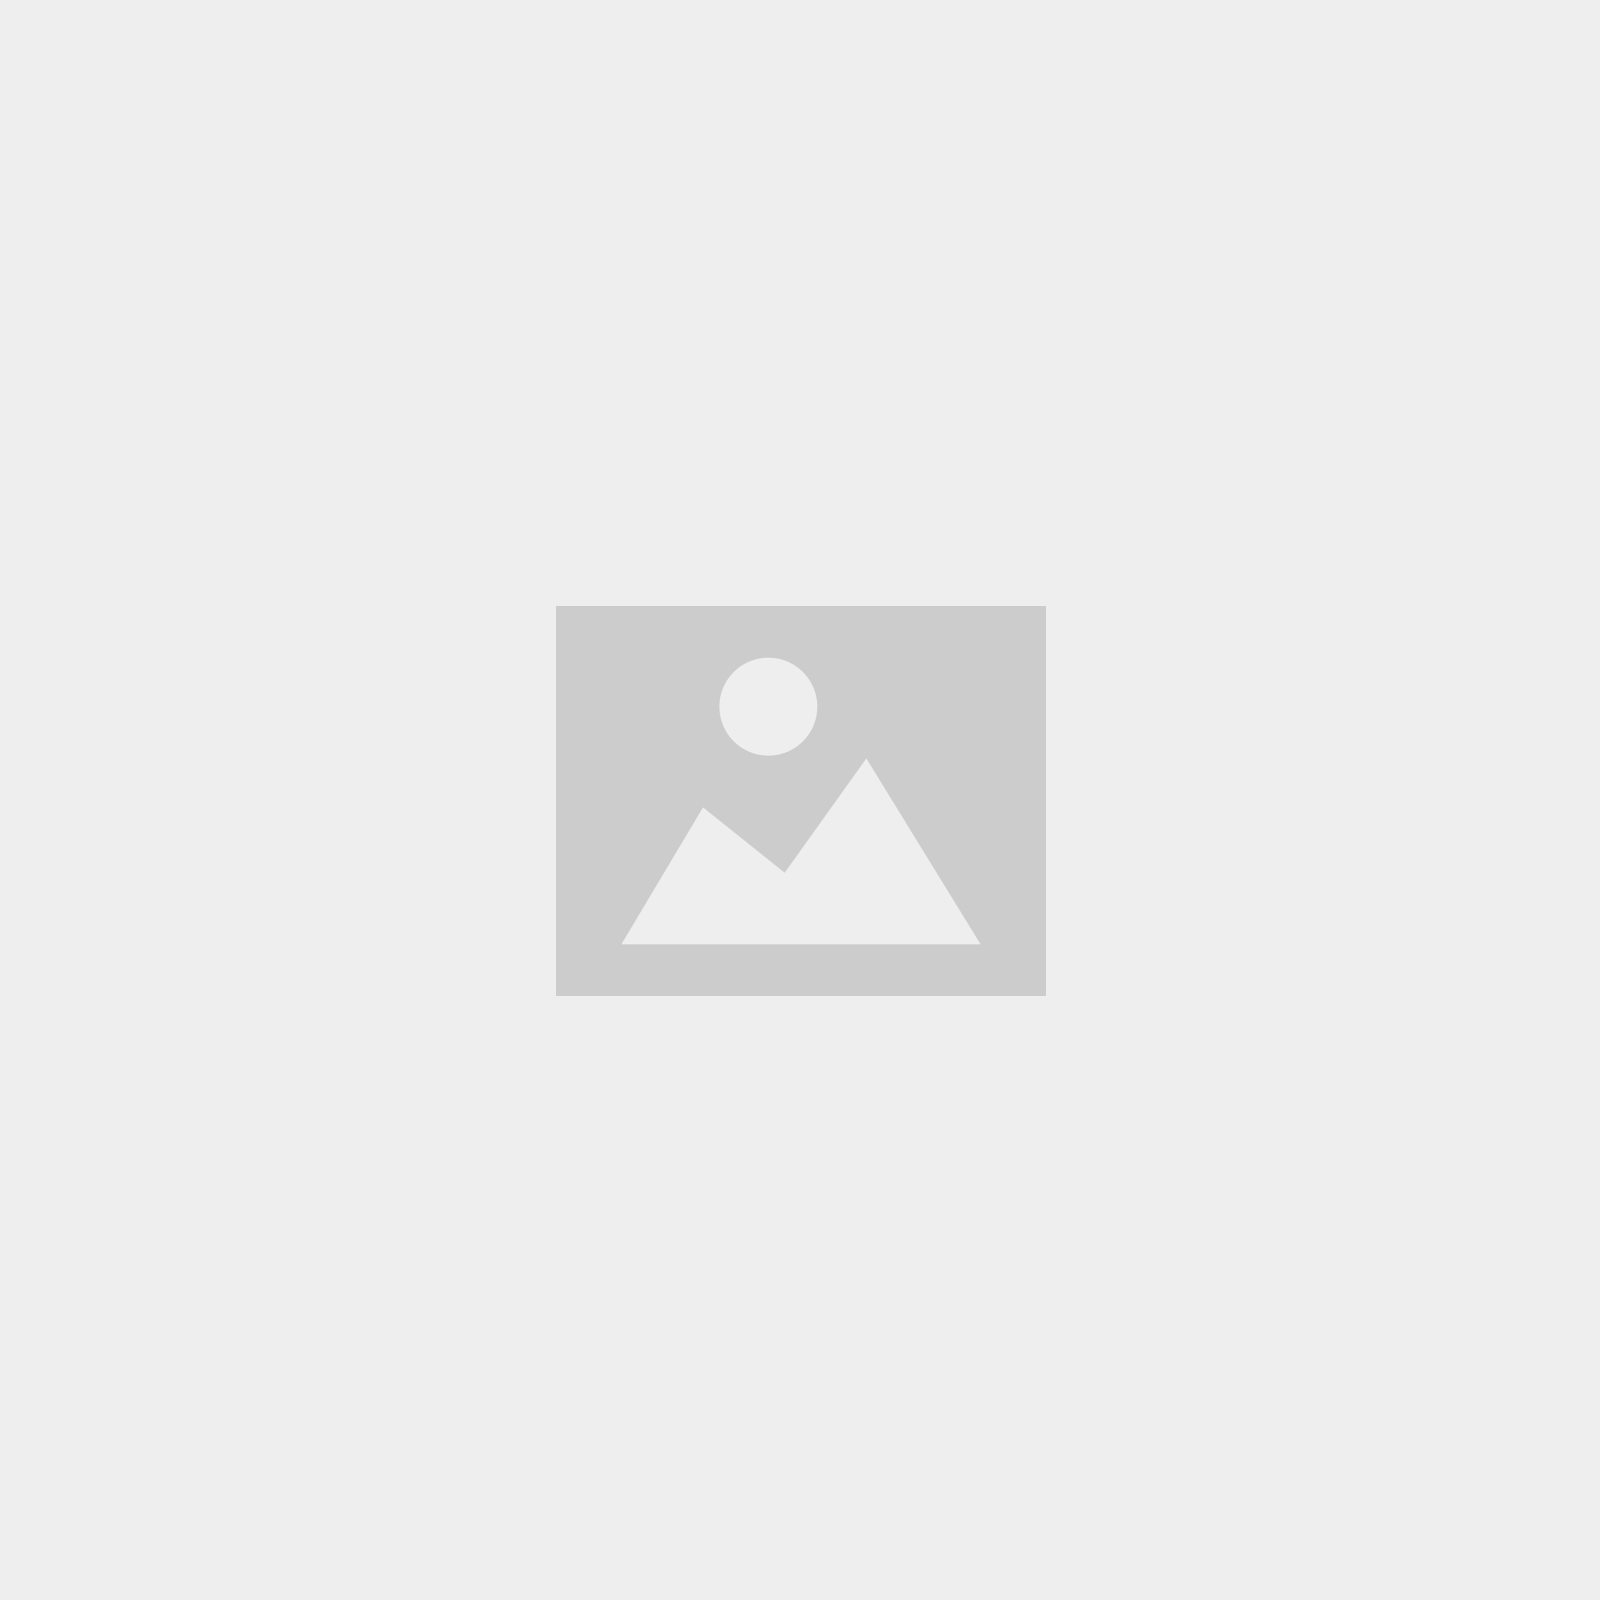
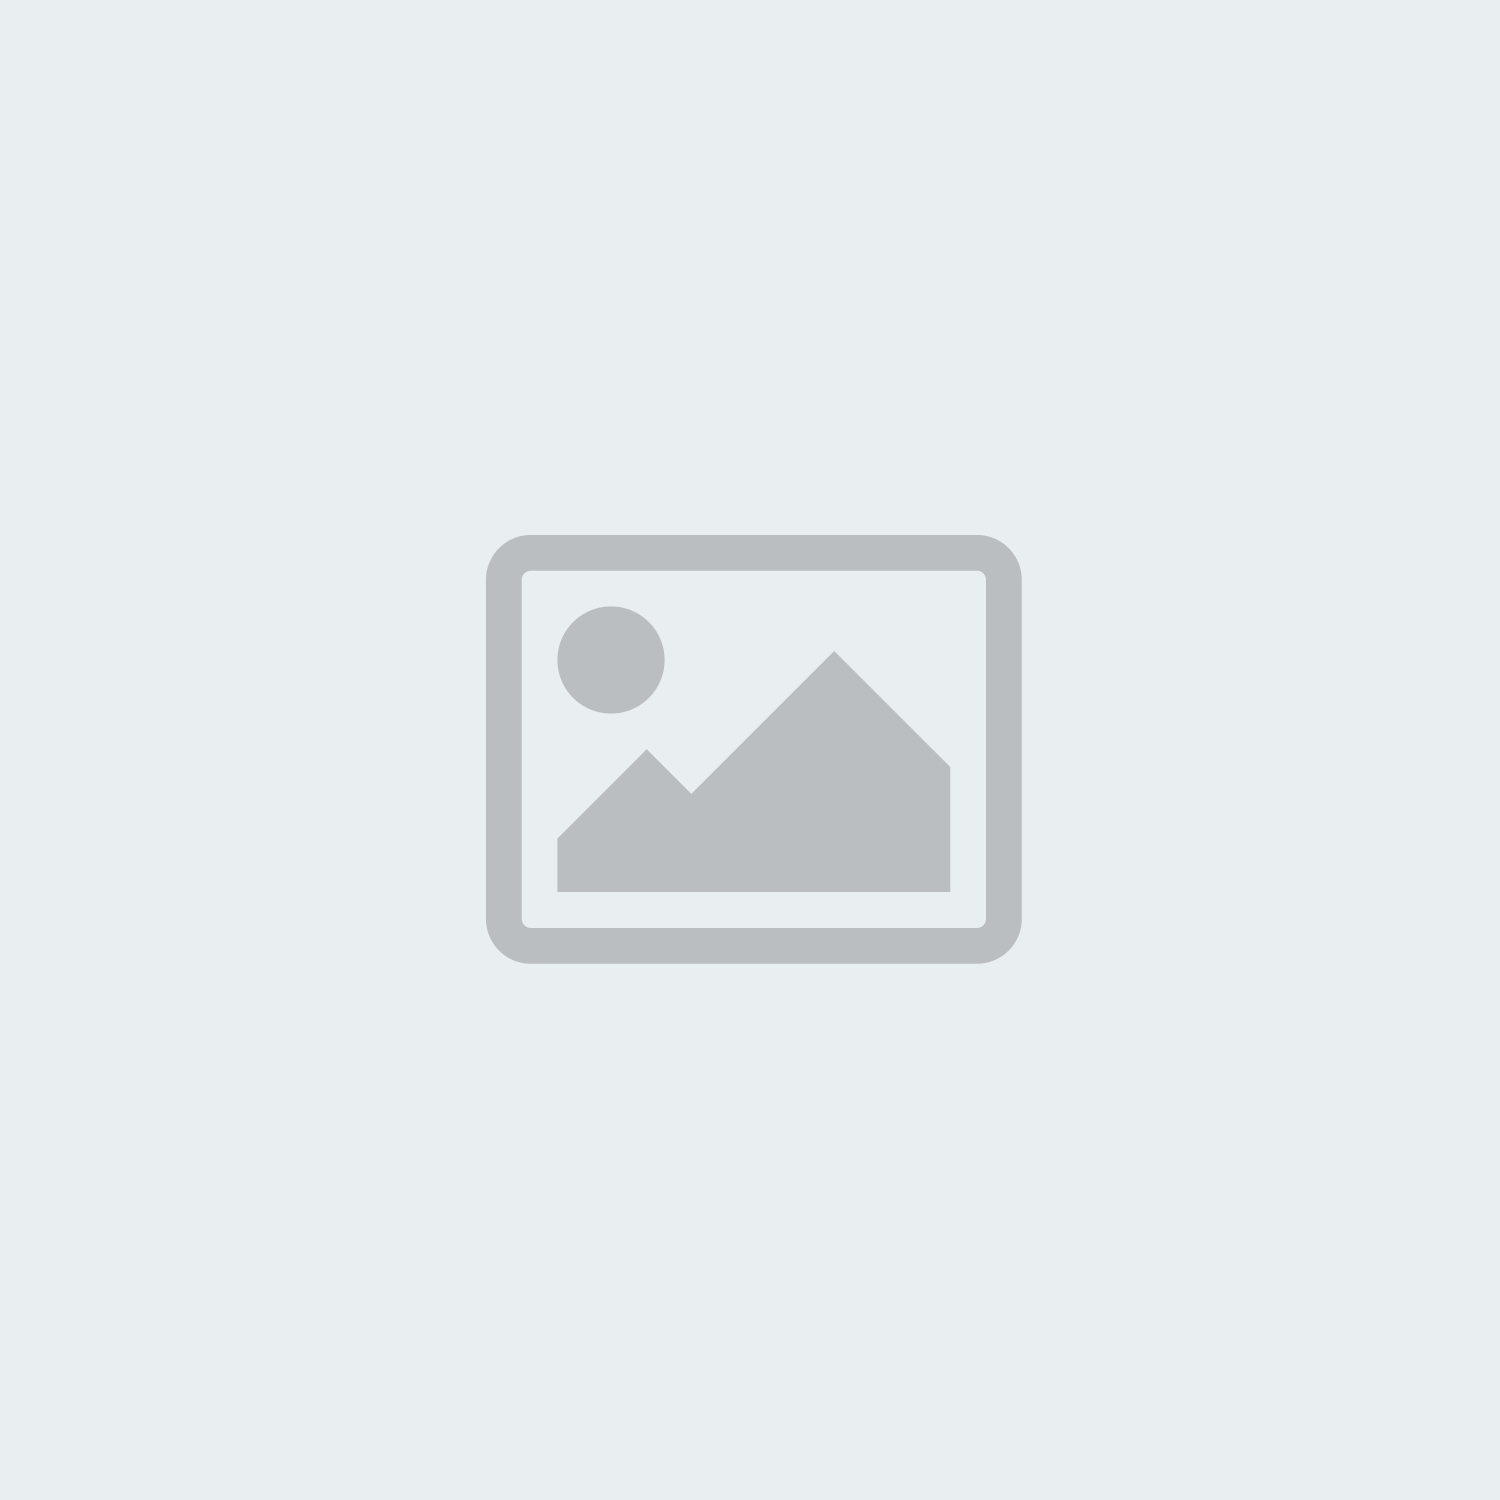
NutritionDetail: added default image for items

Changed region(s): [[0.3067, 0.3373, 0.7053, 0.644]]

diff --git a/ExerciseDetail.qml b/ExerciseDetail.qml
@@ -129,7 +129,7 @@ Item {
         anchors.left: exerciseDetail.left;
         anchors.right: exerciseDetail.right;
         anchors.bottom: exerciseDetail.bottom;
-        anchors.topMargin: -100;
+        anchors.topMargin: -80;
         anchors.horizontalCenter: exerciseDetail.horizontalCenter;
 
         height: 150;
@@ -143,7 +143,7 @@ Item {
             id: exerciseRounds;
             anchors.top: startExercises.top;
             anchors.horizontalCenter: exerciseDetail.horizontalCenter;
-            anchors.bottomMargin: app.sizes.margin / 2.5;
+            anchors.bottomMargin: app.sizes.margin / 2.8;
 
             color: imagesGalary.zoom ? app.theme.light.textColor : fit.isDark ? app.theme.dark.textColor : app.theme.light.textColor;
 
@@ -151,7 +151,7 @@ Item {
 
             font: Font {
                 family: "Proxima Nova Condensed";
-                pixelSize: 28;
+                pixelSize: 26;
                 black: true;
             }
         }

diff --git a/NutritionDelegate.qml b/NutritionDelegate.qml
@@ -21,9 +21,26 @@ Rectangle {
         height: 185;
 
         Image {
-            id: imageNutrition;
+            id: imageNutritionDefault;
             anchors.top: imageNutritionItem.top;
             opacity: nutritionDelegate.activeFocus ? 1.0 : app.config.inactiveOpacity;
+
+            width: app.sizes.nutrition.width - 5;
+            height: 185;
+            
+            visible: imageNutrition.status !== ui.Image.Ready;
+            opacity: imageNutrition.status !== ui.Image.Ready ? 1.0 : app.config.inactiveOpacity;
+            registerInCacheSystem: false;
+            
+            source: "apps/fit_app/res/default_nutrition.png";
+
+            fillMode: PreserveAspectFit;
+        }
+
+        Image {
+            id: imageNutrition;
+            anchors.top: imageNutritionItem.top;
+            opacity: nutritionDelegate.activeFocus ? 1.0 : 0.8;
 
             width: app.sizes.nutrition.width - 5;
             height: 185;

diff --git a/js/app.js b/js/app.js
@@ -319,12 +319,12 @@ this.httpServer = (url, method, params, functionName, callback) => {
             if (http.status === 200) {
                 return callback(JSON.parse(http.responseText));
             }
-            log("----");
-            log("Error http server status:", http.status);
-            log("Function name:", functionName);
-            log("Error url:", this.formatParams(url, params));
-            log("Text response:", http.responseText ? http.responseText : null);
-            log("----");
+            log("\n----",
+                "\nError http server status:", http.status,
+                "\nFunction name:", functionName,
+                "\nError url:", url,
+                "\nText response:", http.responseText ? http.responseText : null,
+                "\n----");
             return callback(false);
         }
 

diff --git a/NutritionDetail.qml b/NutritionDetail.qml
@@ -43,6 +43,25 @@ Item {
     }
 
     Image {
+        id: imageNutritionDefault;
+        anchors.top: nameText.bottom;
+        anchors.left: nutritionDetail.left;
+        anchors.topMargin: app.sizes.margin / 2;
+        opacity: 1.0;
+
+        width: 350;
+        height: 230;
+        
+        visible: imageNutrition.status !== ui.Image.Ready;
+        opacity: imageNutrition.status !== ui.Image.Ready ? 1.0 : app.config.inactiveOpacity;
+        registerInCacheSystem: false;
+        
+        source: "apps/fit_app/res/default_nutrition.png";
+
+        fillMode: PreserveAspectFit;
+    }
+
+    Image {
         id: imageNutrition;
         anchors.top: nameText.bottom;
         anchors.left: nutritionDetail.left;

diff --git a/main.qml b/main.qml
@@ -292,9 +292,9 @@ Application {
     * Spinner loading
     */
     Spinner {
-        id: loadingCatalogSpinner;
-        color: fit.isDark ? app.theme.dark.background : app.theme.light.background;
-        anchors.centerIn: fit;
+        id: loadingSpinner;
+        anchors.centerIn: mainView;
+        z: 3;
         visible: fit.loading;
     }
 
@@ -432,6 +432,7 @@ Application {
     }
 
     onCompleted: {
+        fit.loading = true;
         tab.currentIndex = 1;
         tab.currentIndex = 0;
 
@@ -445,6 +446,10 @@ Application {
     }
 
     onBackPressed: {
+        if (fit.fullscreen) {
+            fit.fullscreen = false;
+            return;
+        }
         viewsFinder.closeApp();
     }
 

diff --git a/VideoItems.qml b/VideoItems.qml
@@ -6,12 +6,8 @@ GridView {
     id: videoItemsList;
 	z: 1;
 
-    property bool loading: false;
-
     cellWidth: app.sizes.poster.width + 5;
     cellHeight: (app.sizes.poster.height * 2) + 5;
-
-    visible: !loading;
 
     focus: true;
     clip: true;
@@ -21,8 +17,6 @@ GridView {
     model: ListModel { id: videoModel; }
 
     function getVideos(url) {
-        fit.loading = true;
-
         app.httpServer(url, "GET", {}, "getVideos", (videos) => {
         	videoItemsList.videoModel.reset();
             if (videos.length) {

diff --git a/ExerciseItems.qml b/ExerciseItems.qml
@@ -18,6 +18,7 @@ ListView {
 	model: ListModel { id: exerciseItemModel; }
 
 	function getExercises(id_type) {
+		fit.loading = true;
         app.httpServer(app.config.api.exercises, "GET", { id_type: id_type }, "getExercises", (exercise) => {
             // reset model
             exerciseItemsList.exerciseItemModel.reset();
@@ -33,7 +34,9 @@ ListView {
                         images: vid["images"]
                     });
                 });
-            };
+            }
+
+    		fit.loading = false;
         });
     }
 

diff --git a/StatsPage.qml b/StatsPage.qml
@@ -122,6 +122,7 @@ Item {
     }
 
     function getStats() {
+        fit.loading = true;
         app.httpServer(app.config.api.stingray, "GET", {}, "appInit", (data) => {
             if (!data.id) return callback(false);
 
@@ -133,6 +134,7 @@ Item {
                 });
                 barCharts.setFocus();
             }
+            fit.loading = false;
         });
     }
 

diff --git a/ExercisesPage.qml b/ExercisesPage.qml
@@ -119,7 +119,6 @@ Item {
     onCompleted: {}
 
     function getChipsAndExercises() {
-        fit.loading = true;
         chipItems.getChips(app.config.api.exercisesCategories, (callback) => {
             if (callback) {
                 exerciseItemsList.getExercises(chipItems.model.get(chipItems.currentIndex).id_type);

diff --git a/SettingsPage.qml b/SettingsPage.qml
@@ -410,6 +410,8 @@ Item {
 
     onVisibleChanged: {
         themeChanger.setFocus();
-        fit.appInit((callback) => {});
+        fit.appInit((callback) => {
+            fit.loading = false;
+        });
     }
 }
